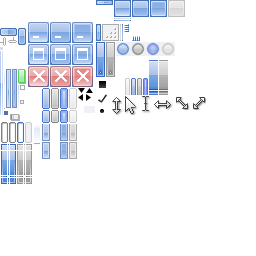
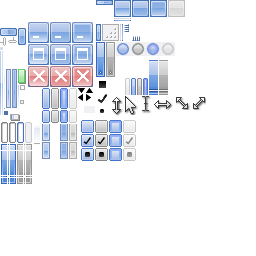
checkboxes

diff --git a/api/gui.cpp b/api/gui.cpp
@@ -35,6 +35,8 @@ static const int totalBorderHeight = 6 + 24 + 6;
 
 static UIImage progressBarBackground, progressBarPellet, progressBarDisabled;
 static UIImage buttonNormal, buttonHover, buttonDragged, buttonDisabled;
+static UIImage checkboxNormal, checkboxHover, checkboxDragged, checkboxDisabled;
+static UIImage checkboxNormalChecked, checkboxHoverChecked, checkboxDraggedChecked, checkboxDisabledChecked;
 
 struct Control : APIObject {
 	struct Window *window;
@@ -43,17 +45,19 @@ struct Control : APIObject {
 	OSRectangle bounds, cellBounds;
 
 	uint32_t backgroundColor;
-	UIImage background, disabledBackground, hoverBackground, dragBackground;
 	bool drawParentBackground;
 
-	OSAction *clickAction;
+	UIImage background, disabledBackground, hoverBackground, dragBackground;
+	UIImage icon, disabledIcon, hoverIcon, dragIcon;
+
+	OSAction *action;
 	OSCursorStyle cursor;
 
 	OSString text;
 	OSRectangle textBounds;
 	uint32_t textColor;
 	bool textShadow, textBold;
-	int textSize;
+	int textSize, textAlign;
 
 	bool repaint, relayout;
 	int preferredWidth, preferredHeight;
@@ -105,6 +109,14 @@ static bool IsPointInRectangle(OSRectangle rectangle, int x, int y) {
 	}
 	
 	return true;
+}
+
+static void UpdateCheckboxIcons(Control *control) {
+	OSAction *action = control->action;
+	control->icon = action->isChecked ? checkboxNormalChecked : checkboxNormal;
+	control->disabledIcon = action->isChecked ? checkboxDisabledChecked : checkboxDisabled;
+	control->hoverIcon = action->isChecked ? checkboxHoverChecked : checkboxHover;
+	control->dragIcon = action->isChecked ? checkboxDraggedChecked : checkboxDragged;
 }
 
 static OSCallbackResponse ProcessControlMessage(OSObject _object, OSMessage *message) {
@@ -165,6 +177,10 @@ static OSCallbackResponse ProcessControlMessage(OSObject _object, OSMessage *mes
 
 		case OS_MESSAGE_LAYOUT_TEXT: {
 			control->textBounds = control->bounds;
+
+			if (control->icon.region.left) {
+				control->textBounds.left += control->icon.region.right - control->icon.region.left + 4;
+			}
 		} break;
 
 		case OS_MESSAGE_MEASURE: {
@@ -223,6 +239,40 @@ static OSCallbackResponse ProcessControlMessage(OSObject _object, OSMessage *mes
 					}
 				}
 
+				{
+					bool found = false;
+					UIImage image;
+
+					if (control->icon.region.left) {
+						found = true;
+						image = control->icon;
+					}
+
+					if (control->disabledIcon.region.left && control->disabled) {
+						found = true;
+						image = control->disabledIcon;
+					}
+
+					if (control->hoverIcon.region.left && (control->window->hover == control || control->window->drag == control)) {
+						found = true;
+						image = control->hoverIcon;
+					}
+
+					if (control->dragIcon.region.left && control->window->drag == control && control->window->hover == control) {
+						found = true;
+						image = control->dragIcon;
+					}
+
+					if (found) {
+						OSRectangle bounds = control->bounds;
+						bounds.right = bounds.left + image.region.right - image.region.left;
+						bounds.top += (bounds.bottom - bounds.top) / 2 - (image.region.bottom - image.region.top) / 2;
+						bounds.bottom = bounds.top + image.region.bottom - image.region.top;
+						OSDrawSurface(message->paint.surface, OS_SURFACE_UI_SHEET, bounds, 
+								image.region, image.border, OS_DRAW_MODE_REPEAT_FIRST);
+					}
+				}
+
 				uint32_t textColor = control->textColor;
 				uint32_t textShadowColor = 0xFFFFFF - textColor;
 
@@ -236,11 +286,11 @@ static OSCallbackResponse ProcessControlMessage(OSObject _object, OSMessage *mes
 					bounds.top++; bounds.bottom++; bounds.left++; bounds.right++;
 
 					OSDrawString(message->paint.surface, bounds, &control->text, control->textSize,
-							OS_DRAW_STRING_HALIGN_CENTER | OS_DRAW_STRING_VALIGN_CENTER, textShadowColor, -1, control->textBold);
+							control->textAlign, textShadowColor, -1, control->textBold);
 				}
 
 				OSDrawString(message->paint.surface, control->textBounds, &control->text, control->textSize,
-						OS_DRAW_STRING_HALIGN_CENTER | OS_DRAW_STRING_VALIGN_CENTER, textColor, -1, control->textBold);
+						control->textAlign, textColor, -1, control->textBold);
 
 				control->repaint = false;
 			}
@@ -297,10 +347,15 @@ static OSCallbackResponse ProcessControlMessage(OSObject _object, OSMessage *mes
 		} break;
 
 		case OS_MESSAGE_CLICKED: {
-			if (control->clickAction) {
+			if (control->action) {
 				OSMessage message;
 				message.type = OS_NOTIFICATION_ACTION;
-				OSForwardMessage(control, control->clickAction->callback, &message);
+				OSForwardMessage(control, control->action->callback, &message);
+
+				if (control->action->checkable) {
+					control->action->isChecked = !control->action->isChecked;
+					UpdateCheckboxIcons(control);
+				}
 			}
 		} break;
 
@@ -423,20 +478,27 @@ OSObject OSCreateButton(OSAction *action) {
 	Control *control = (Control *) OSHeapAllocate(sizeof(Control), true);
 	control->type = API_OBJECT_CONTROL;
 
-	control->minimumWidth = 80;
-	control->minimumHeight = 21;
 	control->preferredWidth = 80;
 	control->preferredHeight = 21;
 
+	control->action = action;
+
+	if (action->checkable) {
+		UpdateCheckboxIcons(control);
+		control->textAlign = OS_DRAW_STRING_VALIGN_CENTER | OS_DRAW_STRING_HALIGN_LEFT;
+		control->drawParentBackground = true;
+		control->minimumHeight = control->icon.region.bottom - control->icon.region.top;
+	} else {
+		control->background = buttonNormal;
+		control->disabledBackground = buttonDisabled;
+		control->hoverBackground = buttonHover;
+		control->dragBackground = buttonDragged;
+		control->minimumWidth = 80;
+		control->minimumHeight = 21;
+	}
+
 	OSSetCallback(control, OSCallback(ProcessControlMessage, nullptr));
 	OSSetText(control, action->label, action->labelBytes);
-
-	control->background = buttonNormal;
-	control->disabledBackground = buttonDisabled;
-	control->hoverBackground = buttonHover;
-	control->dragBackground = buttonDragged;
-
-	control->clickAction = action;
 
 	return control;
 }
@@ -563,6 +625,10 @@ void OSSetText(OSObject _control, char *text, size_t textBytes) {
 
 	int suggestedWidth = MeasureStringWidth(text, textBytes, FONT_SIZE, fontRegular) + 4;
 	int suggestedHeight = FONT_SIZE + 8;
+
+	if (control->icon.region.left) {
+		suggestedWidth += control->icon.region.right - control->icon.region.left + 4;
+	}
 
 	if (suggestedWidth > control->minimumWidth) control->preferredWidth = suggestedWidth;
 	if (suggestedHeight > control->minimumHeight) control->preferredHeight = suggestedHeight;
@@ -1105,4 +1171,13 @@ void OSInitialiseGUI() {
 	buttonDragged		= {{9 + 51, 9 + 59, 88, 109}, {9 + 54, 9 + 56, 98, 99}};
 	buttonHover		= {{-9 + 51, -9 + 59, 88, 109}, {-9 + 54, -9 + 56, 98, 99}};
 	buttonDisabled		= {{18 + 51, 18 + 59, 88, 109}, {18 + 54, 18 + 56, 98, 99}};
+
+	checkboxNormal		= {{95, 108, 120, 133}, {95, 95, 120, 120}};
+	checkboxDragged		= {{14 + 95, 14 + 108, 120, 133}, {14 + 95, 14 + 95, 120, 120}};
+	checkboxHover		= {{-14 + 95, -14 + 108, 120, 133}, {-14 + 95, -14 + 95, 120, 120}};
+	checkboxDisabled	= {{28 + 95, 28 + 108, 120, 133}, {28 + 95, 28 + 95, 120, 120}};
+	checkboxNormalChecked	= {{95, 108, 14 + 120, 14 + 133}, {95, 95, 14 + 120, 14 + 120}};
+	checkboxDraggedChecked	= {{14 + 95, 14 + 108, 14 + 120, 14 + 133}, {14 + 95, 14 + 95, 14 + 120, 14 + 120}};
+	checkboxHoverChecked	= {{-14 + 95, -14 + 108, 14 + 120, 14 + 133}, {-14 + 95, -14 + 95, 14 + 120, 14 + 120}};
+	checkboxDisabledChecked	= {{28 + 95, 28 + 108, 14 + 120, 14 + 133}, {28 + 95, 28 + 95, 14 + 120, 14 + 120}};
 }

diff --git a/api/font.cpp b/api/font.cpp
@@ -411,19 +411,10 @@ static OSError DrawString(OSHandle surface, OSRectangle region,
 
 #define FONT_SIZE (9)
 
-OSError OSFindCharacterAtCoordinate(OSRectangle region, OSPoint coordinate, 
-		OSString *string, unsigned alignment, OSCaret *caret) {
-	return DrawString(OS_INVALID_HANDLE, region, 
-			string,
-			alignment, 0, 0, 0,
-			coordinate, caret, -1, -1, false, FONT_SIZE, fontRegular);
-}
-
 OSError OSDrawString(OSHandle surface, OSRectangle region, 
 		OSString *string, int fontSize,
 		unsigned alignment, uint32_t color, int32_t backgroundColor, bool bold) {
-	return DrawString(surface, region, 
-			string,
-			alignment, color, backgroundColor, 0,
+	return DrawString(surface, region, string,
+			alignment ? alignment : OS_DRAW_STRING_HALIGN_CENTER | OS_DRAW_STRING_VALIGN_CENTER, color, backgroundColor, 0,
 			OSPoint(0, 0), nullptr, -1, -1, false, fontSize ? fontSize : FONT_SIZE, bold ? fontBold : fontRegular);
 }

diff --git a/api/test.cpp b/api/test.cpp
@@ -423,9 +423,10 @@ extern "C" void ProgramEntry() {
 	OSObject content = OSCreateGrid(2, 2, 0);
 	OSSetRootGrid(window, content);
 
-	actionOK.label = (char *) "OK";
+	actionOK.label = (char *) "Enable Something";
 	actionOK.labelBytes = OSCStringLength(actionOK.label);
 	actionOK.callback = OSCallback(ProcessActionOK, nullptr);
+	actionOK.checkable = true;
 
 	progressBar = OSCreateProgressBar(0, 5, 0);
 	OSObject button = OSCreateButton(&actionOK);

diff --git a/api/os.h b/api/os.h
@@ -608,6 +608,8 @@ typedef struct OSAction {
 	char *label;
 	size_t labelBytes;
 	OSCallback callback;
+
+	bool checkable, isChecked;
 } OSAction;
 
 typedef struct OSWindowSpecification {
